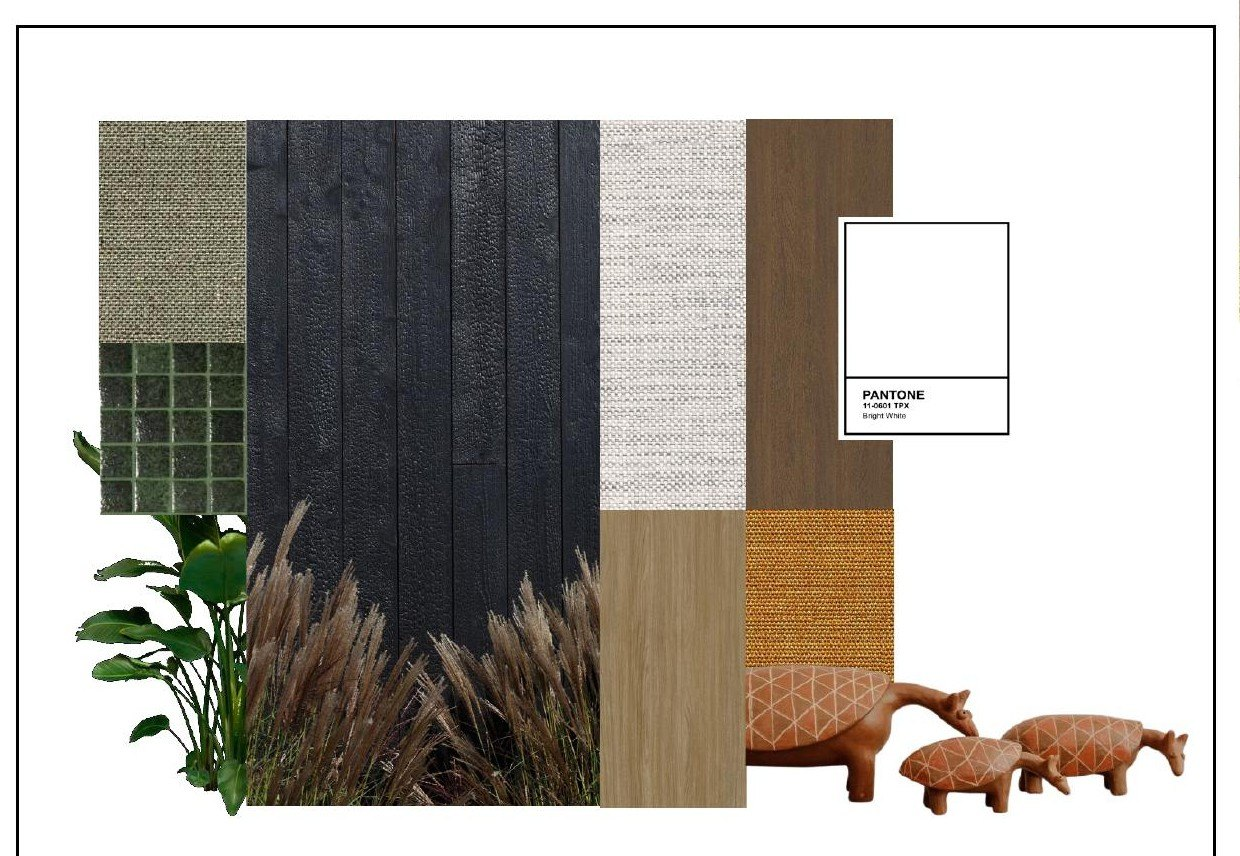
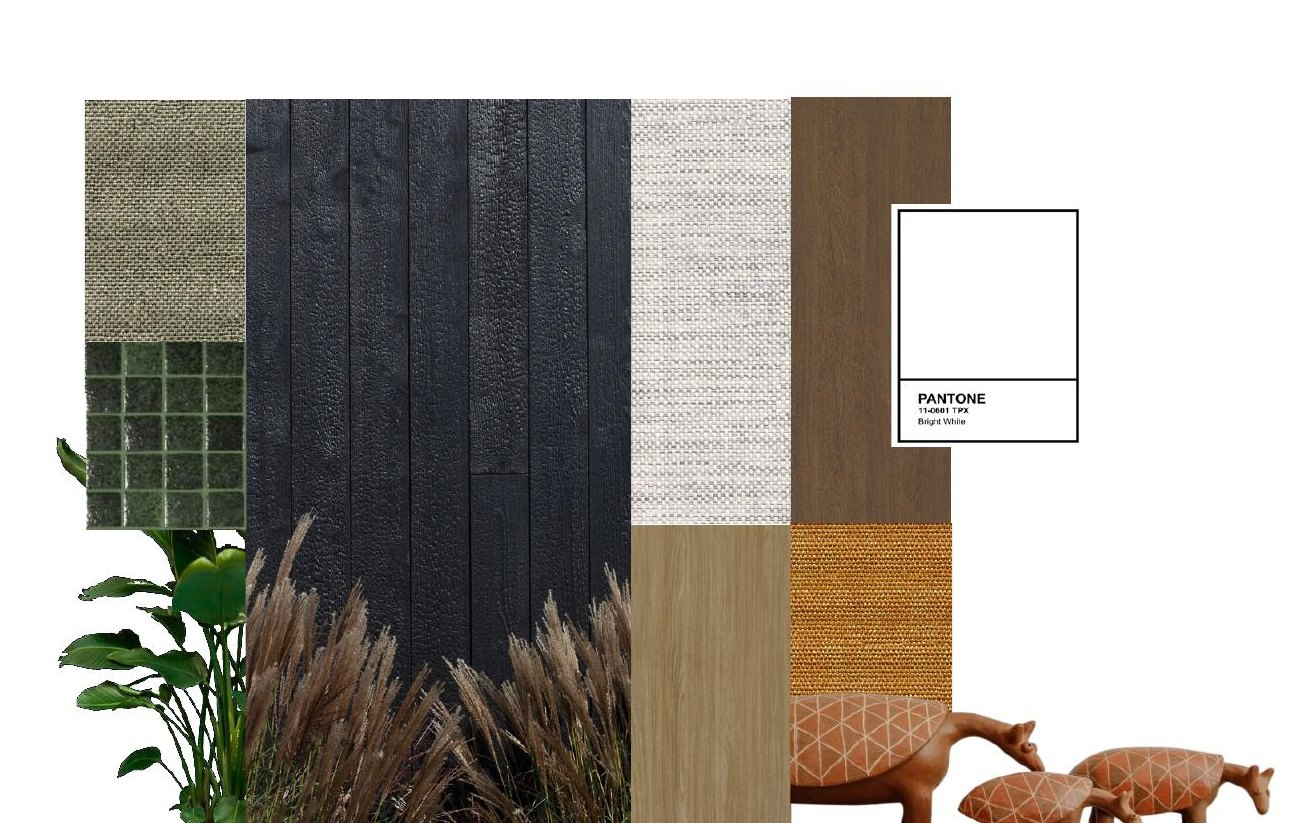
Ibirapuera team update; Apto Tai moodboard/plan frame cleanup
- Ibirapuera competition team is now Felipe Sousa, Beatriz Gonçalves and
  Matheus Vieira (removed Jade Silva and Nathalia Carvalho) — PT + EN
- Apto Tai: re-cropped the moodboard to drop the black frame lines around
  the composition; removed the thin border rectangle around the floor
  plan (scoped .case-process-gallery.no-frame) — PT + EN

Claude-Session: https://claude.ai/code/session_01HqKDPvoXRStNEpKKe7fuSb

diff --git a/en/index.html b/en/index.html
@@ -150,7 +150,7 @@
         <div class="comp-status">Honorable Mention</div>
         <h4>Ibirapuera Park Furniture</h4>
         <p>Projetar.org National Student Competition · 033 — 2019</p>
-        <div class="comp-role">Group authorship and drawing · Modeling, rendering, post-production and board layout · Revit · SketchUp · V-Ray · Photoshop · Illustrator<br>Team: Felipe Sousa, Jade Silva and Nathalia Carvalho</div>
+        <div class="comp-role">Group authorship and drawing · Modeling, rendering, post-production and board layout · Revit · SketchUp · V-Ray · Photoshop · Illustrator<br>Team: Felipe Sousa, Beatriz Gonçalves and Matheus Vieira</div>
       </div>
       <div class="comp-card reveal reveal-delay-1">
         <img src="../assets/img/concurso-refugio.jpg" loading="lazy" alt="Interior of a housing module for the Guararapes Space of the Future competition" width="1364" height="869" srcset="../assets/img/concurso-refugio-800.webp 800w" sizes="(max-width: 720px) 100vw, 1200px">

diff --git a/en/projects/apto-tai/index.html b/en/projects/apto-tai/index.html
@@ -81,7 +81,7 @@
       <section class="case-process">
         <div class="eyebrow reveal">Plan</div>
         <h2 class="case-process-title reveal">Layout · 70 m² in a single gesture.</h2>
-        <div class="project-gallery one case-process-gallery reveal">
+        <div class="project-gallery one case-process-gallery no-frame reveal">
         <img src="../../../assets/img/apto-plan.jpg" alt="Floor plan of Apto Tai — master suite, bedroom 01, baths and open living space" width="1600" height="793" srcset="../../../assets/img/apto-plan-800.webp 800w, ../../../assets/img/apto-plan-1600.webp 1600w" sizes="(max-width: 720px) 100vw, 1200px" loading="lazy">
         </div>
       </section>

diff --git a/index.html b/index.html
@@ -145,7 +145,7 @@
         <div class="comp-status">Menção Honrosa</div>
         <h4>Mobiliário do Ibirapuera</h4>
         <p>Concurso Nacional de Estudantes Projetar.org · 033 — 2019</p>
-        <div class="comp-role">Autoria em grupo e desenho · Modelagem, renderização, pós-produção e diagramação de prancha · Revit · SketchUp · VRay · Photoshop · Illustrator<br>Equipe: Felipe Sousa, Jade Silva e Nathalia Carvalho</div>
+        <div class="comp-role">Autoria em grupo e desenho · Modelagem, renderização, pós-produção e diagramação de prancha · Revit · SketchUp · VRay · Photoshop · Illustrator<br>Equipe: Felipe Sousa, Beatriz Gonçalves e Matheus Vieira</div>
       </div>
       <div class="comp-card reveal reveal-delay-1">
         <img src="assets/img/concurso-refugio.jpg" loading="lazy" alt="Interior de módulo habitacional para o concurso Espaço do Futuro Guararapes" width="1364" height="869" srcset="assets/img/concurso-refugio-800.webp 800w" sizes="(max-width: 720px) 100vw, 1200px">

diff --git a/projetos/apto-tai/index.html b/projetos/apto-tai/index.html
@@ -81,7 +81,7 @@
       <section class="case-process">
         <div class="eyebrow reveal">Planta</div>
         <h2 class="case-process-title reveal">Layout · 70 m² em um único gesto.</h2>
-        <div class="project-gallery one case-process-gallery reveal">
+        <div class="project-gallery one case-process-gallery no-frame reveal">
         <img src="../../assets/img/apto-plan.jpg" alt="Planta baixa do Apto Tai — suíte master, quarto 01, banhos e sala integrada" width="1600" height="793" srcset="../../assets/img/apto-plan-800.webp 800w, ../../assets/img/apto-plan-1600.webp 1600w" sizes="(max-width: 720px) 100vw, 1200px" loading="lazy">
         </div>
       </section>

diff --git a/assets/css/style.css b/assets/css/style.css
@@ -321,6 +321,7 @@ p{ margin:0 0 1em; }
 .case-process-gallery img{
   border:1px solid var(--line); box-shadow:none; background:#fff;
 }
+.case-process-gallery.no-frame img{ border:none; }
 .project-participation b{ display:block; font-size:.66rem; font-weight:600; letter-spacing:.12em; text-transform:uppercase; color:var(--gray); margin-bottom:.5rem; }
 .case-footer{
   padding:2.5rem 0;